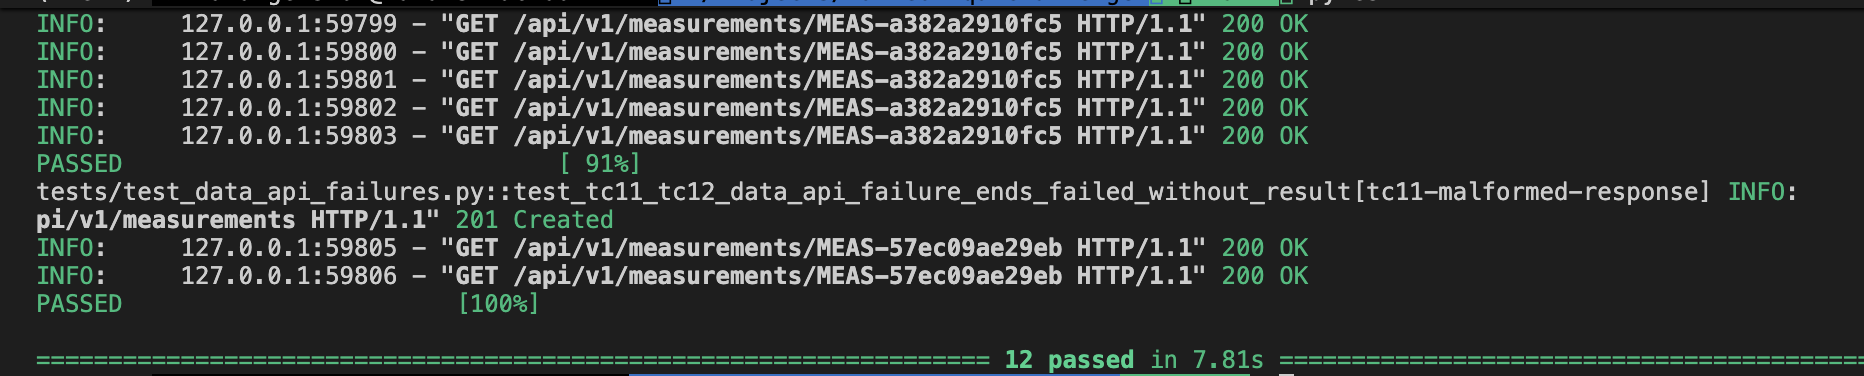
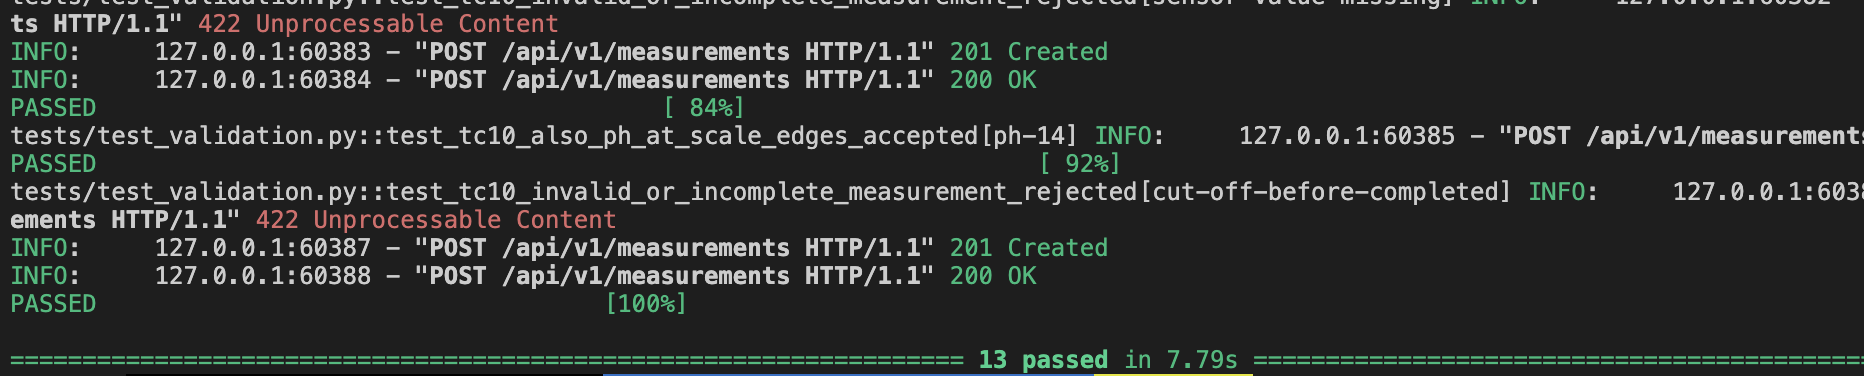
Fix review findings: hydration check in TC-03/TC-04, resend guard in TC-10
Mock trimmed to the measurement endpoints; CI keeps the mock log; README updated

diff --git a/mock/app.py b/mock/app.py
@@ -1,23 +1,23 @@
-"""Minimal mock of the backend API contract (Part 3)."""
+"""Minimal mock of the backend API contract: the measurement endpoints (Part 3)."""
 
 import asyncio
 import os
 import uuid
-from datetime import datetime, timezone
+from datetime import datetime
 from typing import Optional
 
 from fastapi import FastAPI, Header, HTTPException, Response
 from pydantic import BaseModel, Field, model_validator
 
 PROCESSING_DELAY = float(os.getenv("MOCK_PROCESSING_DELAY", "0.3"))
-SLOW_EXTRA_DELAY = float(os.getenv("MOCK_SLOW_EXTRA_DELAY", "1.5"))
+# PROCESSING_DELAY + SLOW_EXTRA_DELAY must stay below DATA_API_TIMEOUT, or "slow" ends as "failed".
+SLOW_EXTRA_DELAY = float(os.getenv("MOCK_SLOW_EXTRA_DELAY", "0.7"))
 DATA_API_TIMEOUT = float(os.getenv("MOCK_DATA_API_TIMEOUT", "2.0"))
 
 app = FastAPI(title="Kamleon backend mock")
 
 measurements: dict[str, dict] = {}
 duplicate_index: dict[tuple, str] = {}
-devices: dict[str, dict] = {}
 # asyncio keeps only weak references to tasks; hold them until they finish.
 background_tasks: set = set()
 
@@ -29,7 +29,7 @@ class SensorData(BaseModel):
 
 
 class MeasurementIn(BaseModel):
-    deviceId: str = Field(min_length=1)
+    deviceId: str = Field(min_length=1)  # assumption: no way to register a device, so any ID is accepted
     userId: Optional[str] = None
     sessionId: str = Field(min_length=1)
     startedAt: datetime
@@ -42,14 +42,6 @@ class MeasurementIn(BaseModel):
         if self.completedAt <= self.startedAt:
             raise ValueError("completedAt must be after startedAt")
         return self
-
-
-class ModeIn(BaseModel):
-    mode: str
-
-
-class FirmwareIn(BaseModel):
-    version: str = Field(min_length=1)
 
 
 async def fake_data_api(sensor_data: dict, behaviour: Optional[str]) -> dict:
@@ -131,36 +123,3 @@ async def get_measurement(measurement_id: str):
     if m is None:
         raise HTTPException(status_code=404, detail="Measurement not found")
     return {k: m[k] for k in ("measurementId", "deviceId", "userId", "status", "result")}
-
-
-def get_or_register_device(device_id: str) -> dict:
-    # assumption: the contract has no way to register a device, so any ID is accepted
-    if device_id not in devices:
-        devices[device_id] = {
-            "deviceId": device_id,
-            "status": "online",
-            "mode": "normal",
-            "firmwareVersion": "1.4.2",
-            "lastSeen": datetime.now(timezone.utc).strftime("%Y-%m-%dT%H:%M:%SZ"),
-        }
-    return devices[device_id]
-
-
-@app.get("/api/v1/devices/{device_id}")
-async def get_device(device_id: str):
-    return get_or_register_device(device_id)
-
-
-@app.post("/api/v1/devices/{device_id}/mode")
-async def change_mode(device_id: str, body: ModeIn):
-    if body.mode not in ("normal", "maintenance"):
-        raise HTTPException(status_code=422, detail="mode must be normal or maintenance")
-    device = get_or_register_device(device_id)
-    device["mode"] = body.mode
-    return {"deviceId": device_id, "mode": body.mode}
-
-
-@app.post("/api/v1/devices/{device_id}/firmware-update")
-async def start_firmware_update(device_id: str, body: FirmwareIn):
-    get_or_register_device(device_id)
-    return {"deviceId": device_id, "status": "update_started", "targetVersion": body.version}

diff --git a/tests/test_measurement_flow.py b/tests/test_measurement_flow.py
@@ -1,3 +1,5 @@
+import copy
+
 import pytest
 import requests
 
@@ -31,6 +33,16 @@ def test_tc02_anonymous_user_result_returned_not_linked(base_url, make_measureme
     assert isinstance(final["result"]["hydration"], (int, float))
 
 
+def hydration_without_race(base_url, make_measurement, measurement):
+    # The model belongs to the data team, so the expected hydration comes from the system
+    # itself: the same readings, sent alone (assumption: the model is deterministic).
+    reference = make_measurement()
+    reference["sensorData"] = copy.deepcopy(measurement["sensorData"])
+    final = wait_for_final_status(base_url, create_measurement(base_url, reference))
+    assert final["status"] == "completed"
+    return final["result"]["hydration"]
+
+
 @pytest.mark.mock_only
 @pytest.mark.parametrize(
     "identified",
@@ -44,6 +56,10 @@ def test_tc03_tc04_reverse_order_results_stay_with_their_own_measurement(
 ):
     first = make_measurement(identified=identified, volume=40)
     second = make_measurement(identified=identified, volume=70, device_id=first["deviceId"])
+    first_expected = hydration_without_race(base_url, make_measurement, first)
+    second_expected = hydration_without_race(base_url, make_measurement, second)
+    # Equal results would make a swap invisible.
+    assert first_expected != second_expected
 
     # The first measurement's Data API call is slowed, so the second result comes back first.
     first_id = create_measurement(base_url, first, data_api="slow")
@@ -51,14 +67,17 @@ def test_tc03_tc04_reverse_order_results_stay_with_their_own_measurement(
 
     second_final = wait_for_final_status(base_url, second_id)
     # Proves the race really happened: without it the test would check nothing.
-    first_now = requests.get(f"{base_url}/api/v1/measurements/{first_id}", timeout=5).json()
-    assert first_now["status"] == "processing"
+    first_now = requests.get(f"{base_url}/api/v1/measurements/{first_id}", timeout=5)
+    assert first_now.status_code == 200, first_now.text
+    assert first_now.json()["status"] == "processing"
     first_final = wait_for_final_status(base_url, first_id)
 
     assert first_final["status"] == "completed"
     assert first_final["userId"] == first["userId"]
     assert first_final["result"]["volume"] == first["sensorData"]["volume"]
+    assert first_final["result"]["hydration"] == first_expected
 
     assert second_final["status"] == "completed"
     assert second_final["userId"] == second["userId"]
     assert second_final["result"]["volume"] == second["sensorData"]["volume"]
+    assert second_final["result"]["hydration"] == second_expected

diff --git a/tests/test_validation.py b/tests/test_validation.py
@@ -17,6 +17,7 @@ MISSING = object()
         pytest.param("sensorData", "volume", 0, id="zero-volume"),
         pytest.param("sensorData", "temperature", MISSING, id="sensor-value-missing"),
         pytest.param(None, "completedAt", MISSING, id="cut-off-before-completed"),
+        pytest.param(None, "completedAt", "2000-01-01T00:00:00+00:00", id="ends-before-start"),
     ],
 )
 def test_tc10_invalid_or_incomplete_measurement_rejected(
@@ -35,7 +36,11 @@ def test_tc10_invalid_or_incomplete_measurement_rejected(
 
     # No delete or list endpoint, so prove nothing was stored: the valid version of the
     # same measurement must be created as new (201), not returned as a resend (200).
-    create_measurement(base_url, valid)
+    valid_id = create_measurement(base_url, valid)
+    # Guard: the resend rule this proof relies on really works.
+    resend = requests.post(f"{base_url}/api/v1/measurements", json=valid, timeout=5)
+    assert resend.status_code == 200, resend.text
+    assert resend.json()["measurementId"] == valid_id
 
 
 @pytest.mark.parametrize("ph", [0, 14], ids=["ph-0", "ph-14"])

diff --git a/README.md b/README.md
@@ -1,6 +1,6 @@
 # Kamleon QA Engineer — technical challenge
 
-A mock of the backend API contract and an automated API test suite that runs against it.
+A mock of the backend API contract (the measurement endpoints) and an automated API test suite that runs against it.
 The test strategy (Part 1) and the test design (Part 2) are in [`docs/`](docs/).
 
 ## Quick start
@@ -14,7 +14,7 @@ pip install -r requirements.txt
 ```
 
 Run everything (two commands). The mock runs in the background (`&`) and the tests only call it
-over HTTP. They don't start it themselves, so the same `pytest` command can run against any
+over HTTP. They don't start it themselves, so the same tests can run against another
 environment (see below).
 
 ```bash
@@ -52,7 +52,7 @@ ignores the header, so these tests need a stub in the Data API's place to run th
 ## Project layout
 
 ```
-mock/app.py                       fake implementation of the backend contract, served over HTTP
+mock/app.py                       fake implementation of the measurement endpoints, served over HTTP
 tests/conftest.py                 BASE_URL, wait for the API to be up, test-data factory
 tests/helpers.py                  create a measurement; poll until it leaves "processing"
 tests/test_measurement_flow.py    TC-01, TC-02, TC-03/TC-04
@@ -102,7 +102,8 @@ TC-12: the only check of the asynchronous timeout path.
 
 **Device endpoints** (status, mode, firmware update) are not in this suite: the test design covers
 the measurement flow, where the top risks are (wrong user, data leak, wrong result). First device
-test to add: get device → change mode → verify the new state → restore the mode.
+test to add: get device → change mode → verify the new state → restore the mode (the mock gets
+the device endpoints with it).
 
 ## Main technical decisions
 
@@ -110,7 +111,7 @@ test to add: get device → change mode → verify the new state → restore the
 |---|---|---|
 | **A fake implementation of the contract, served as a mock server** (FastAPI) | Stubs inside the tests (responses, respx) | It implements the real rules, so a test can fail; tests reach it only over HTTP, so they also run against a real environment. |
 | **Libraries:** requests (HTTP calls) · uvicorn (serves the FastAPI mock) · pytest-html (report for people) | httpx · Flask's built-in server · JUnit XML only | requests is the simplest and best-known client. uvicorn is FastAPI's standard server. HTML is what a person opens; JUnit XML (built into pytest) is what CI reads. |
-| **Assertions on what happened to the measurement** | Checking the HTTP code | A failed measurement still returns 200, so tests check its status, user and result. TC-03/TC-04 first check that the race really happened; TC-10 checks that a rejected measurement wasn't stored. |
+| **Assertions on what happened to the measurement** | Checking the HTTP code | A failed measurement still returns 200, so tests check its status, user and result. TC-03/TC-04 first check that the race really happened, then compare each hydration with the same readings sent alone; TC-10 checks that a rejected measurement wasn't stored, after proving the resend rule it relies on. |
 | **Polling with a timeout** (every 0.5s, up to 10s) | A fixed sleep | A sleep guesses the timing; a stuck measurement fails with a clear message. |
 | **Unique test data per measurement** (`QA-TEST-` IDs from a factory fixture) | Fixed test data | No delete endpoint, so data can't be cleaned up; unique IDs keep tests independent. |
 | **Data API faults injected per request** (test-only header) | One switch that breaks the Data API for everyone | A fault can't leak into another test. |
@@ -123,32 +124,32 @@ The contract leaves these points open. For each one: the assumption I made, wher
 
 | Gap | Assumption made | Where used | Question or proposal for the team |
 |---|---|---|---|
-| The contract shows no HTTP status codes and no error format | New measurement → 201 · invalid input → 400 or 422 (tests accept both) · unknown measurement → 404 | `create_measurement` helper, TC-10, the mock | Which code for each case (created, resent, invalid, not found), and what does an error look like? Once agreed, TC-10 checks one code. |
+| The contract shows no HTTP status codes and no error format | New measurement → 201 · invalid input → 400 or 422 (tests accept both) · unknown measurement → 404 | 201: the `create_measurement` helper · 400/422: TC-10 · 404: the mock | Which code for each case (created, resent, invalid, not found), and what does an error look like? Once agreed, TC-10 checks one code. |
 | The example response shows only a completed measurement: nothing says what `result` is while `processing` or after `failed`, or how an anonymous `userId` comes back | `result` is `null` until `completed` and stays `null` on `failed` · an anonymous `userId` is `null` | The mock, TC-02, TC-11, TC-12 | Is that the response shape, or are the fields left out? |
-| No idempotency key: the contract doesn't say how the backend recognizes a resent measurement, or what it returns | Same device + session + start time = the same measurement → 200 with the original ID (a new one → 201). A 409 "duplicate" error would also be reasonable. | The mock, TC-10 (proves "not stored" through this rule), TC-13 (designed, not automated) | What counts as the same measurement, and should a resend return the original ID or 409? Proposal: the device sends its own ID with every measurement (idempotency key). |
+| No idempotency key: the contract doesn't say how the backend recognizes a resent measurement, or what it returns | Same device + session + start time = the same measurement → 200 with the original ID (a new one → 201). A 409 "duplicate" error would also be reasonable. | The mock, TC-10 (checks the rule, then proves "not stored" through it), TC-13 (designed, not automated) | What counts as the same measurement, and should a resend return the original ID or 409? Proposal: the device sends its own ID with every measurement (idempotency key). |
 | No way to create a session, identify a user or register a device; no rule linking `userId` to `sessionId` | Any session and device ID is accepted · anonymous measurements still have a session ID · identified-user tests start after identification (against a real backend, test setup identifies the user first) | The mock, TC-01, TC-02, TC-03; blocks TC-05 | Does the backend reject a measurement whose user wasn't identified in that session? Proposal: a way to create a session in test environments (API or seed script), so TC-05 can be automated. |
 | No login, roles or client separation; example IDs look sequential | The mock has no login. Customer organizations (e.g. clubs) are walled off from each other; athletes see only their own data; staff see only their own organization's athletes. The mock uses random IDs. | The mock; blocks TC-06 (top 3) | Who may read which measurements, and are IDs sequential? Proposal: one way to create test users with roles (API or seed script), so a fixture creates them and TC-06 runs on staging. |
 | No way to list a user's or a device's measurements | A rejected measurement is proved "not stored" through the resend rule: the valid copy must come back as new (201) | TC-10; TC-13 (designed, not automated) | Proposal: a list endpoint (per user or device), at least in test environments, so tests can check that exactly one record exists. |
 | No way to delete a measurement | Tests can't clean up, so each one creates unique data with a `QA-TEST-` prefix | Every test (the `make_measurement` factory fixture) | Proposal: a delete endpoint in test environments, or a job that removes `QA-TEST-` data. Cleanup then goes into the fixture, and no test changes. |
-| No time limit for the Data API, no retry rule, no reason on `failed`, and no rule for a result that arrives after `failed` | The backend waits 2s (configurable) and doesn't retry · `failed` is final · a late result is ignored | The mock, TC-11, TC-12 | What's the time limit, and is `failed` final? Proposal: a retry queue that retries the Data API a few times before `failed`, with the measurement ID as idempotency key so a retry never creates a second result. |
+| No time limit for the Data API, no retry rule, no reason on `failed`, and no rule for a result that arrives after `failed` | The backend waits 2s (configurable) and doesn't retry · `failed` is final · a late result is ignored | The mock, TC-11, TC-12 (time limit) · the mock only (`failed` is final, a late result is ignored) | What's the time limit, and is `failed` final? Proposal: a retry queue that retries the Data API a few times before `failed`, with the measurement ID as idempotency key so a retry never creates a second result. |
 | The Data API's response isn't defined, and the task doesn't say whether the same readings always give the same result | The backend accepts an answer only if hydration and volume are numbers; otherwise `failed` · the model is deterministic | The mock, TC-11; TC-09 (designed, not automated) | What fields and types does the Data API return? Is the model deterministic? If not, TC-09 compares within a tolerance the data team sets. |
-| No units or valid ranges for sensor values, no minimum volume or duration, no rule on timestamp order, no hydration scale | All fields required · volume above 0 · pH 0–14 (the scale itself, not a clinical limit) · no temperature range · end time after start time · hydration is a placeholder that differs per input | The mock, TC-10 | What are the units and valid ranges of each value, and the minimum volume and duration? What scale is hydration on? These belong to the data and hardware teams; TC-10 then gets one row per limit. |
+| No units or valid ranges for sensor values, no minimum volume or duration, no rule on timestamp order, no hydration scale | All fields required (`userId` may be null for anonymous) · volume above 0 · pH 0–14 (the scale itself, not a clinical limit) · no temperature range · end time after start time · hydration is a placeholder that differs per input | The mock, TC-10 | What are the units and valid ranges of each value, and the minimum volume and duration? What scale is hydration on? These belong to the data and hardware teams; TC-10 then gets one row per limit. |
 | No field on the result to mark it as unreliable (e.g. readings from a degraded sensor) | Implausible readings end `failed`, with no result shown | TC-08 (top 3, designed, not automated) | How should an untrusted result reach the user: `failed`, a quality field, or "please measure again"? The thresholds belong to the data team; with them as test data, TC-08 can be automated. |
 | No endpoint for the display; the task doesn't say how it gets the result, what it shows, or when it clears | The display shows who the result belongs to | TC-14 (manual, on a real device) | Does the display ask for a result by measurement or by session, and when does it clear? Proposal: show the profile the result was saved under next to it, so a wrong result is visible right away. |
-| Device endpoints: no rule for a measurement sent by a device in `maintenance` or `offline`; a firmware update returns `update_started`, but no status shows that it finished or failed; nothing on the same command received twice | None yet: device endpoints are not in this suite. The mock accepts measurements in any mode. | Not in this suite | Does maintenance mode block measurements? How does a client see that a firmware update finished or failed? Is a repeated command applied only once? |
+| Device endpoints: no rule for a measurement sent by a device in `maintenance` or `offline`; a firmware update returns `update_started`, but no status shows that it finished or failed; nothing on the same command received twice | None yet: device endpoints are not in this suite, and the mock has none. | Not in this suite | Does maintenance mode block measurements? How does a client see that a firmware update finished or failed? Is a repeated command applied only once? |
 
 ## Evidence of execution
 
 Every push runs the suite in [GitHub Actions](https://github.com/HananGershon/kamleon-qa-challenge/actions).
-Each run keeps a `test-report` artifact with an HTML report and JUnit XML.
+Each run keeps a `test-report` artifact with an HTML report, JUnit XML and the mock's log.
 
 **CI run**
 
-![CI run: 12 passed](docs/evidence/ci-run.png)
+![CI run: 13 passed](docs/evidence/ci-run.png)
 
 **Local run**
 
-![Local run: 12 passed](docs/evidence/local-run.png)
+![Local run: 13 passed](docs/evidence/local-run.png)
 
 ## What I'd do with more time
 
